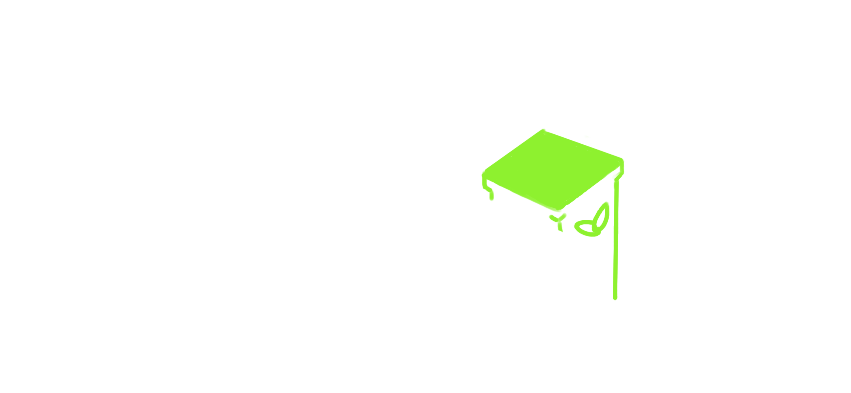
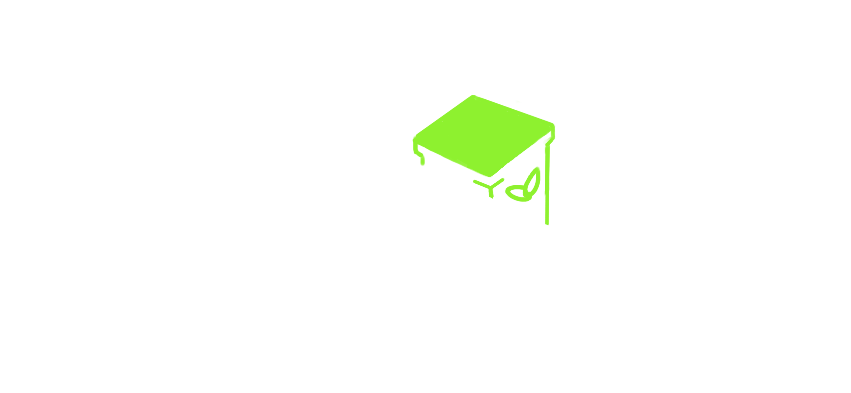
simple layout gamepage done

Changed region(s): [[0.4888, 0.2443, 0.7333, 0.7634]]

diff --git a/WasteWatchers/GamePage.js b/WasteWatchers/GamePage.js
@@ -1,6 +1,14 @@
 import React from "react";
 import { View, Image, StyleSheet } from "react-native";
 import backgroundImage from "./images/belt_static.png";
+import wheel1Image from "./images/wheel1.png";
+import wheel2Image from "./images/wheel2.png";
+import wheel3Image from "./images/wheel3.png";
+import wheel4Image from "./images/wheel4.png";
+import landfillImage from "./images/Landfill.png";
+import ewasteBinImage from "./images/EwasteBin.png";
+import recyclingBinImage from "./images/RecyclingBin.png";
+import organicsBinImage from "./images/OrganicsBin.png";
 
 const GamePage = ({ navigation }) => {
   React.useLayoutEffect(() => {
@@ -10,6 +18,14 @@ const GamePage = ({ navigation }) => {
   return (
     <View style={styles.container}>
       <Image source={backgroundImage} style={styles.backgroundImage} />
+      <Image source={wheel1Image} style={styles.wheelImage} />
+      <Image source={wheel2Image} style={styles.wheelImage} />
+      <Image source={wheel3Image} style={styles.wheelImage} />
+      <Image source={wheel4Image} style={styles.wheelImage} />
+      <Image source={ewasteBinImage} style={styles.binImage} />
+      <Image source={recyclingBinImage} style={styles.binImage} />
+      <Image source={organicsBinImage} style={styles.binImage} />
+      <Image source={landfillImage} style={styles.landfillImage} />
     </View>
   );
 };
@@ -25,6 +41,18 @@ const styles = StyleSheet.create({
     height: "100%",
     resizeMode: "cover",
     position: "absolute",
+  },
+  wheelImage: {
+    position: "absolute",
+    resizeMode: "contain",
+  },
+  binImage: {
+    position: "absolute",
+    resizeMode: "contain",
+  },
+  landfillImage: {
+    position: "absolute",
+    resizeMode: "contain",
   },
 });
 
